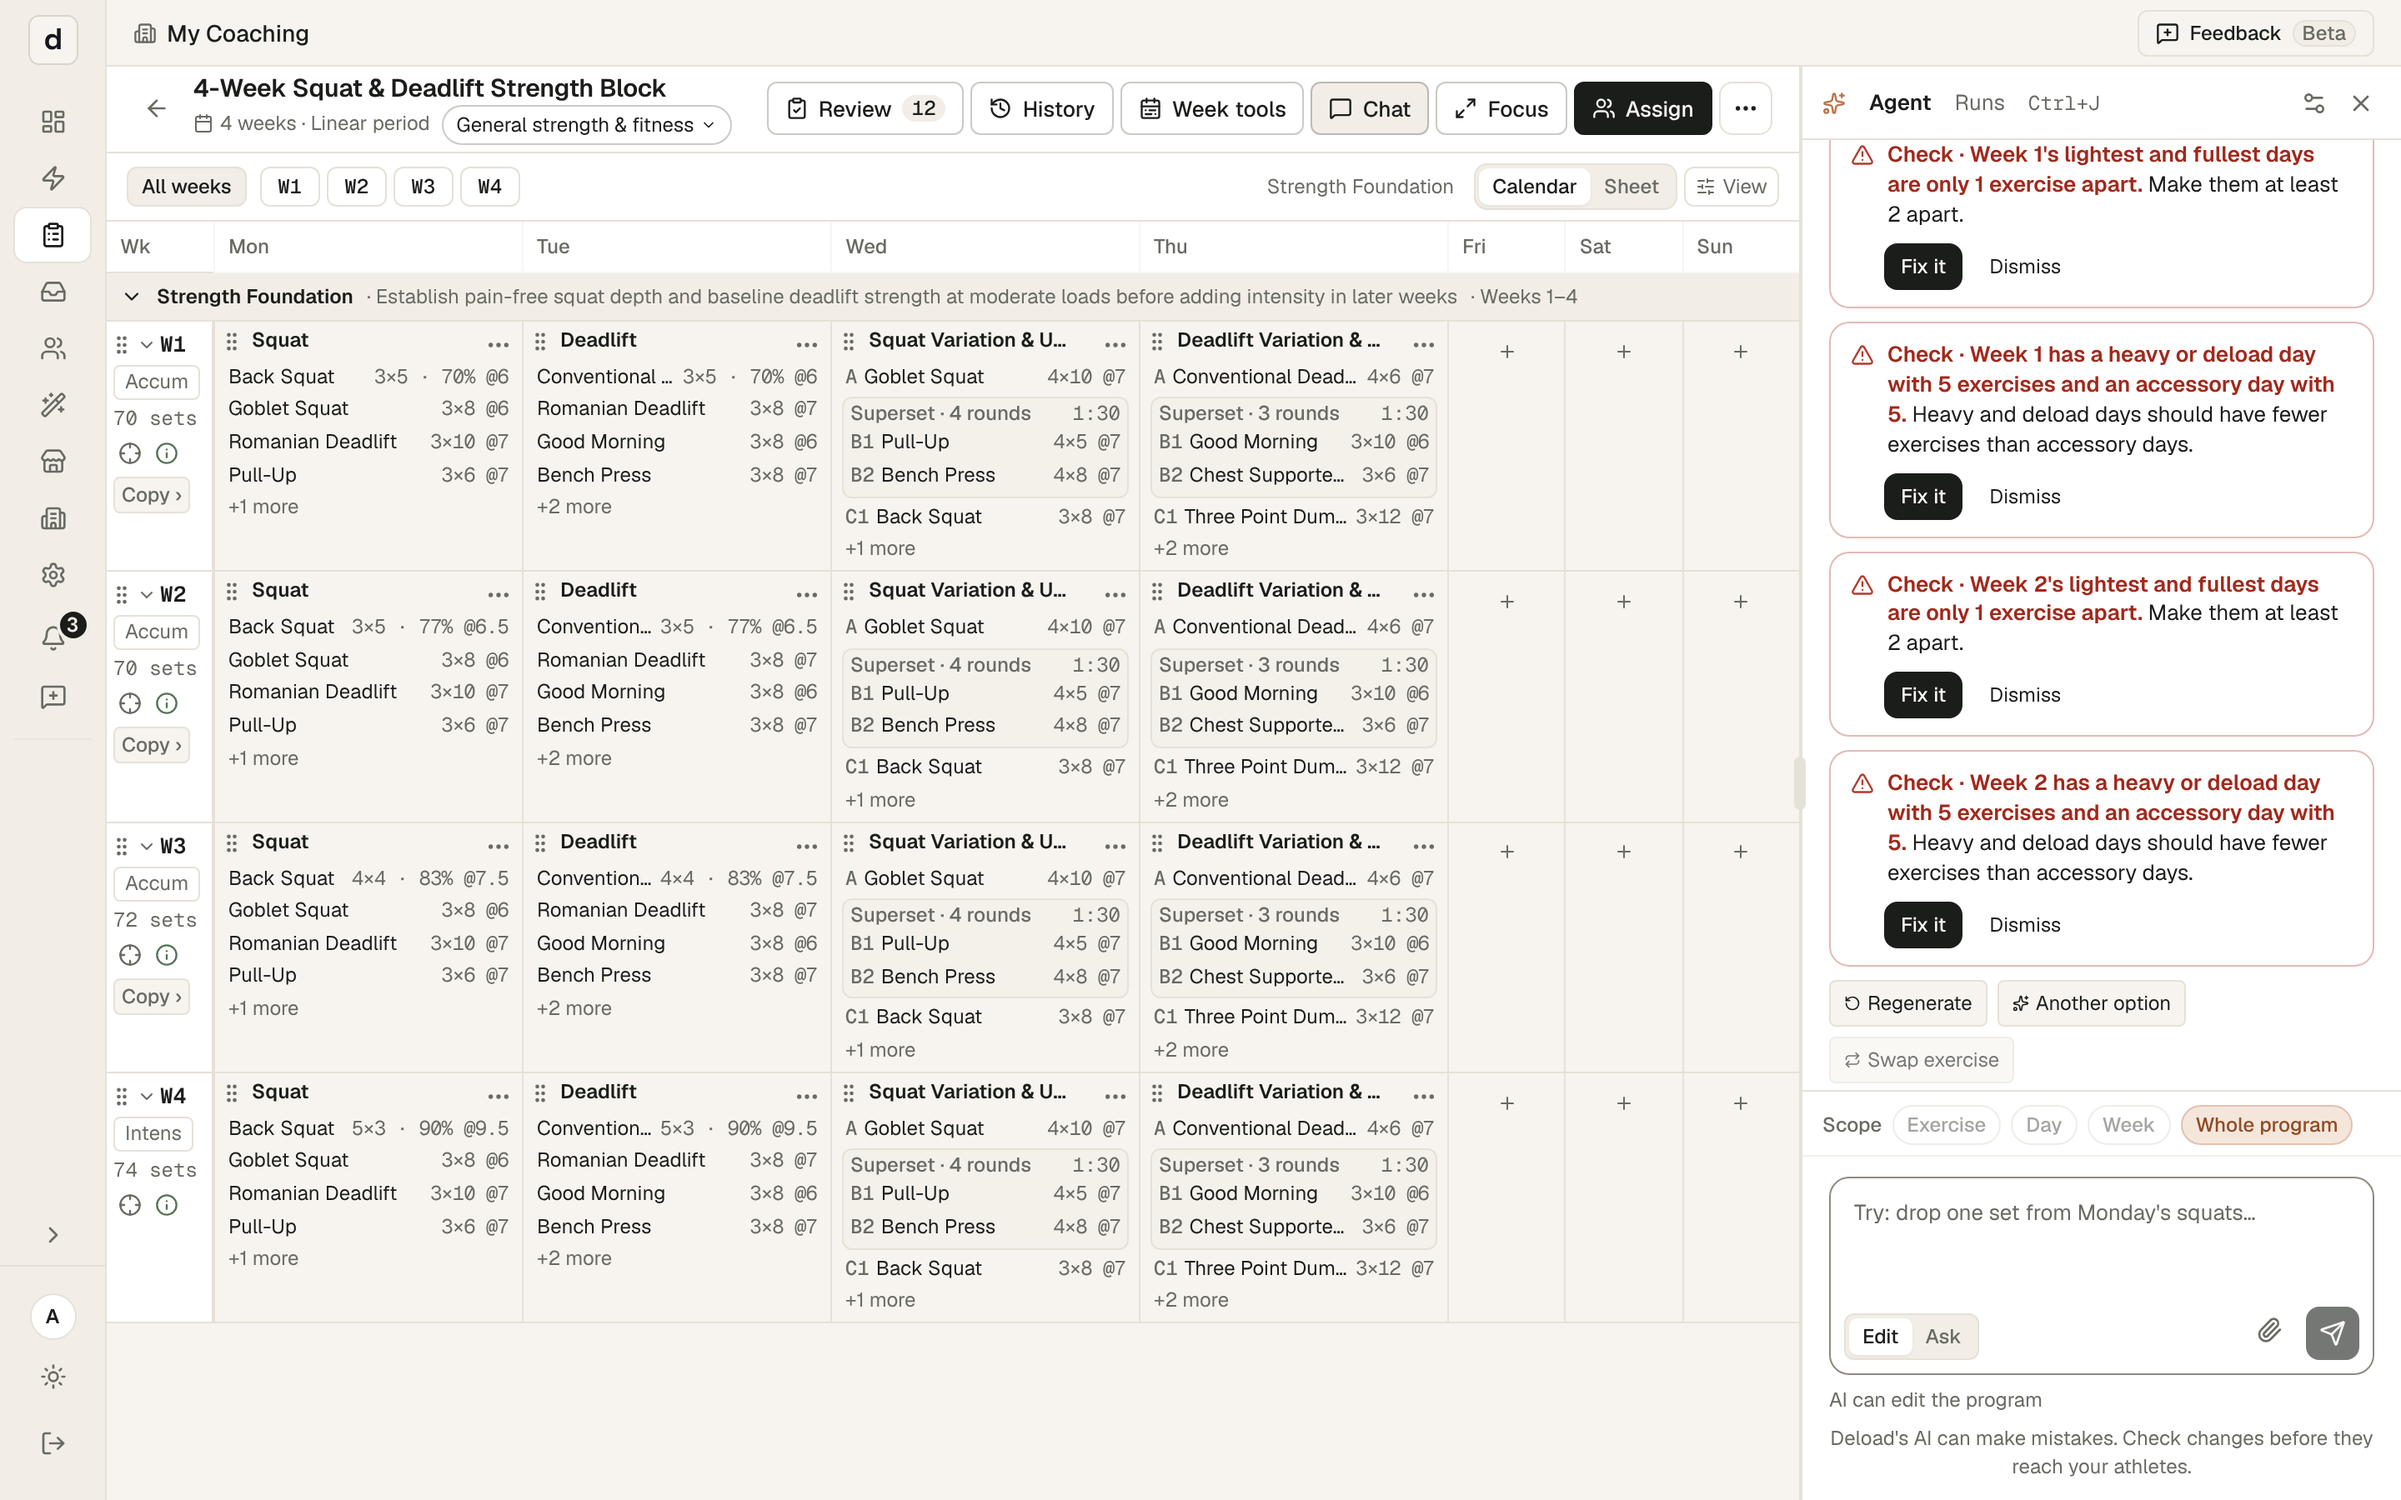
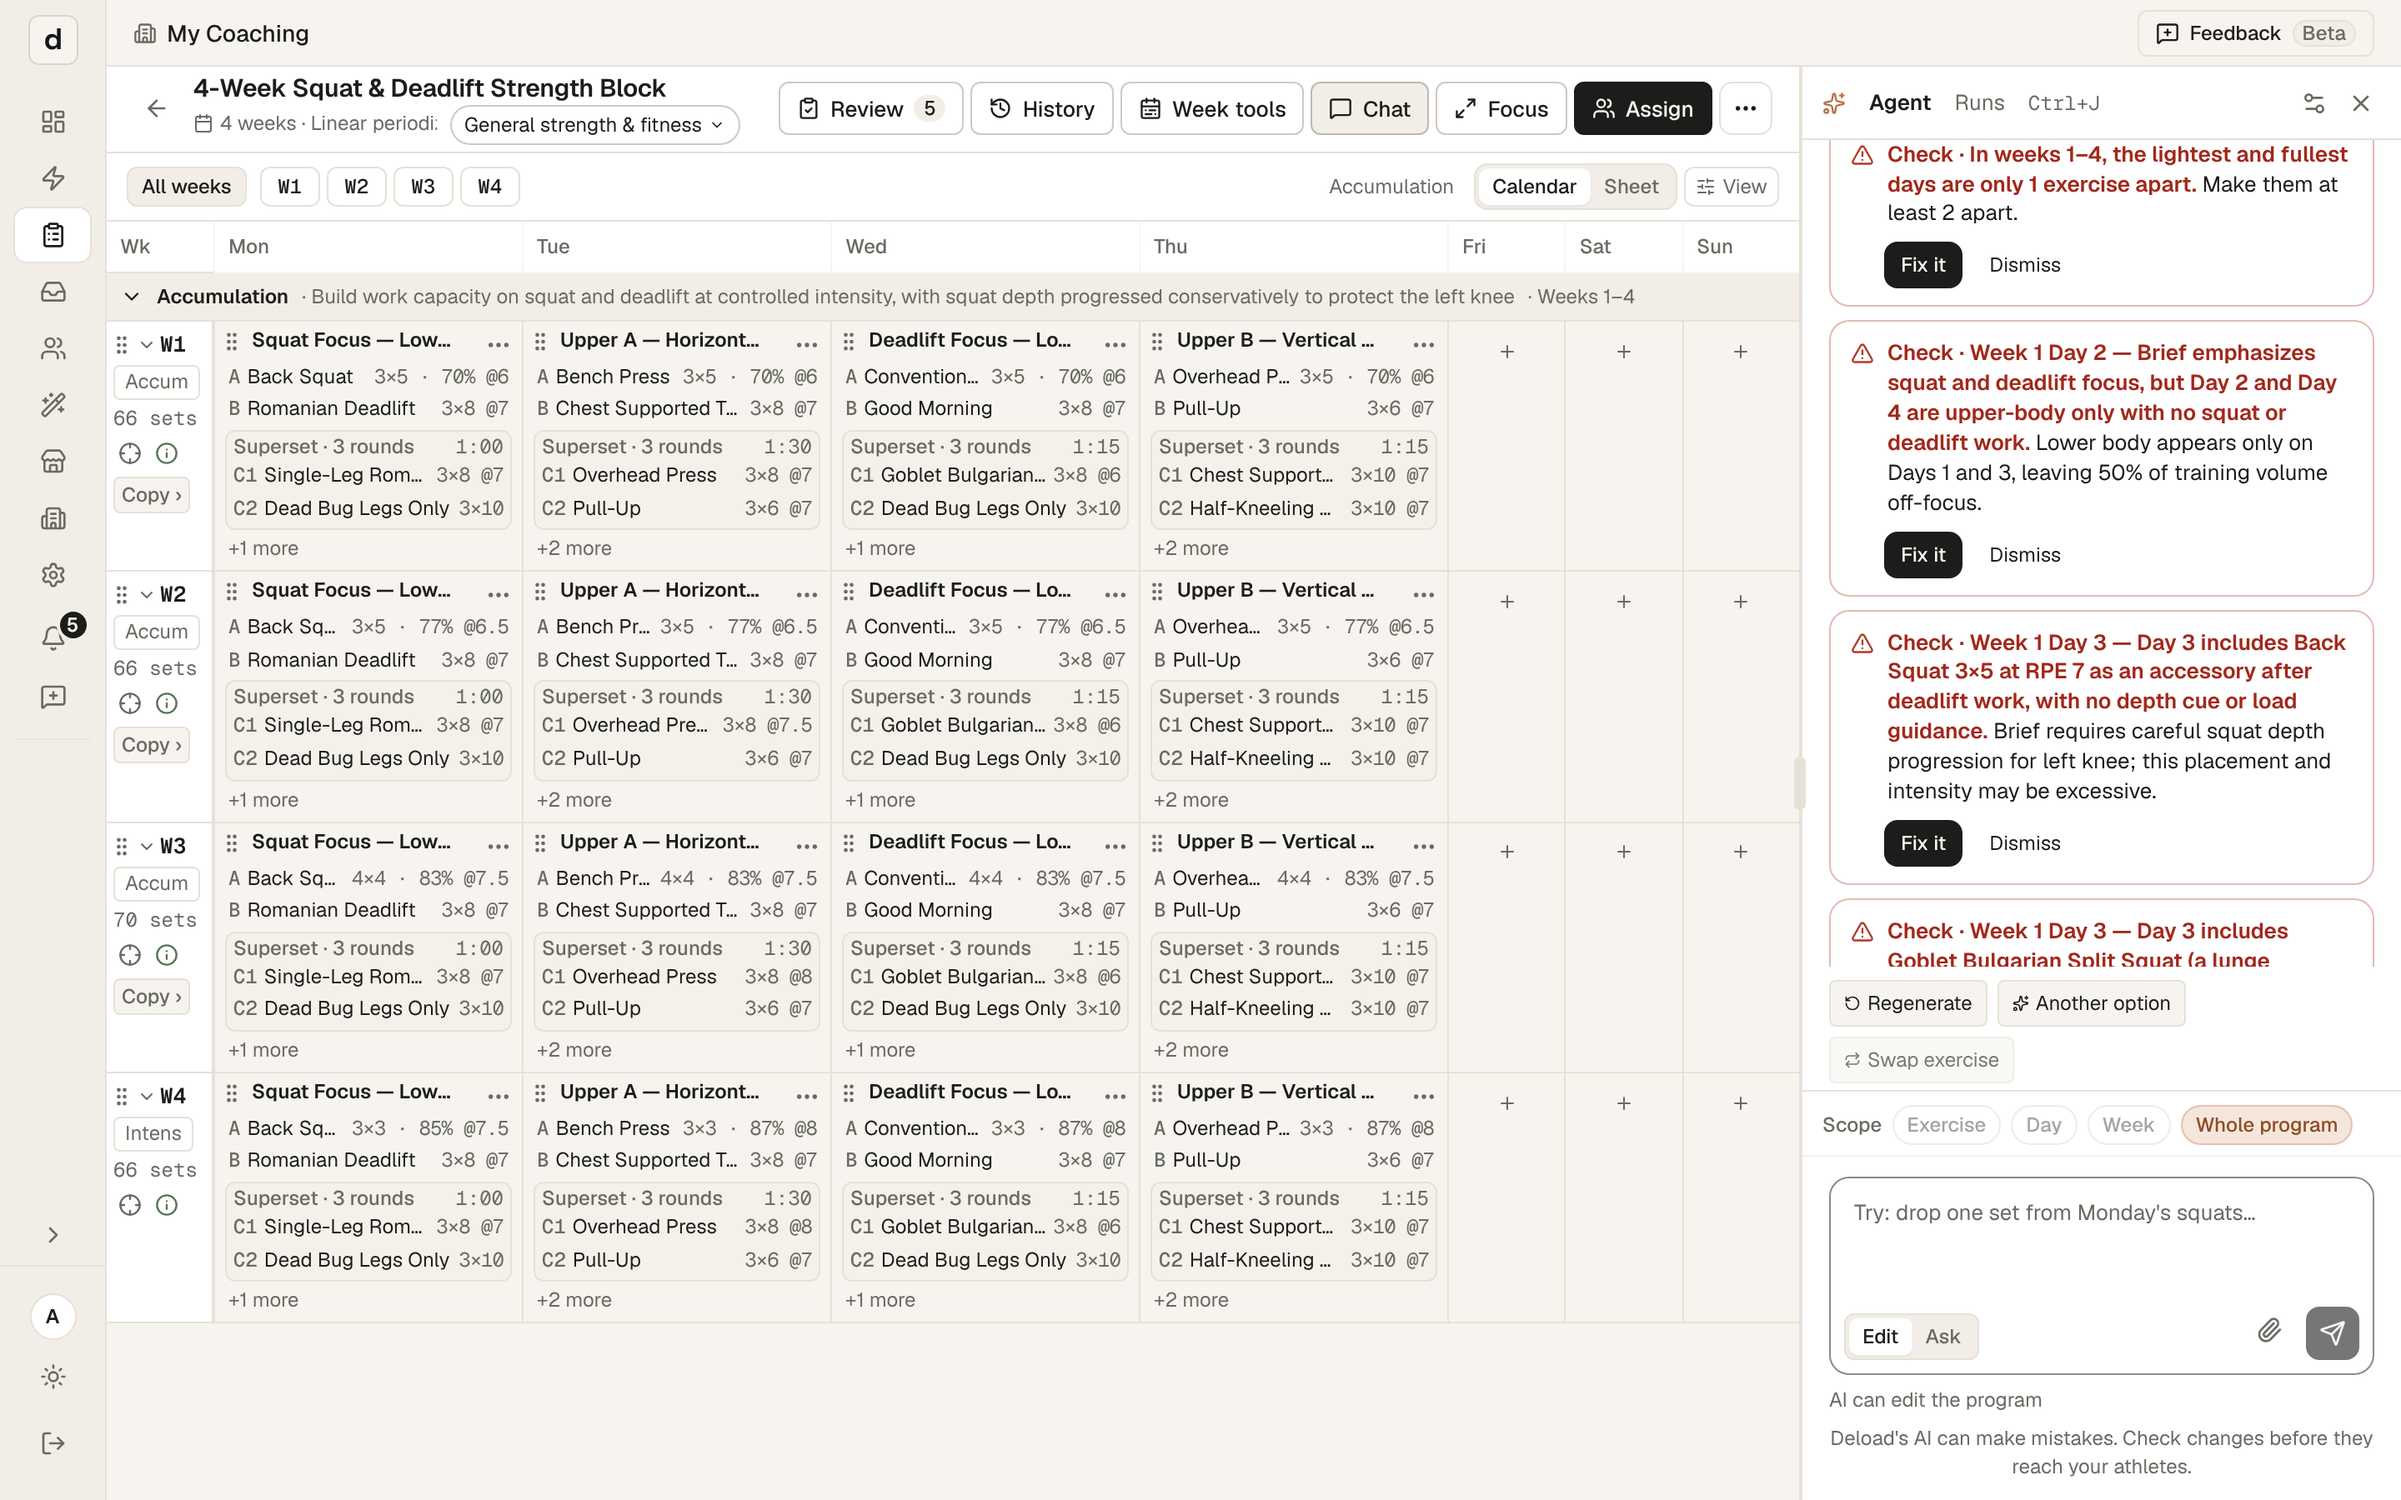
Recapture the plan turn and program calendar from staging
The earlier coach-generate-plan and coach-calendar shots came from a run
where the brief's goal was read as Powerlifting and a climbing exercise
(Limit Bouldering) landed on Thursdays. Both are fixed on staging, so the
same brief was generated again (one generation, then Build the rest) and
the two shots retaken in light and dark at the same size and framing.
README dates and file sizes updated.

Claude-Session: https://claude.ai/code/session_01JG6jN4yocjBnHC3guoLvJd

diff --git a/public/images/product/README.md b/public/images/product/README.md
@@ -1,6 +1,6 @@
 # Product screenshots
 
-Captured 14 Nov 2026 from staging (coach app and athlete app) for the marketing redesign. Each shot is a WebP with a PNG fallback of the same name.
+Captured 14 Nov 2026 from staging (coach app and athlete app) for the marketing redesign. The plan turn (`coach-generate-plan-*`) and the program calendar (`coach-calendar-*`) were recaptured later on 14 Nov 2026 from a fresh generation of the same brief, after the staging fix to how the brief's goal and exercises are read. Each shot is a WebP with a PNG fallback of the same name.
 
 - Coach shots: laptop viewport 1440 x 900 at 2x, so 2880 x 1800.
 - Athlete shots: phone viewport 390 x 844 at 2x, so 780 x 1688 (the numbers crop is 780 x 800).
@@ -13,8 +13,8 @@ Captured 14 Nov 2026 from staging (coach app and athlete app) for the marketing 
 | `coach-generate-plan-dark` | Generate: the plan turn, goal lifts it will check against, "Looks good, generate". (dark) | 2880 x 1800 | 101 KB | 324 KB |
 | `coach-generate-plan-light` | Generate: the plan turn, goal lifts it will check against, "Looks good, generate". (light) | 2880 x 1800 | 103 KB | 327 KB |
 | `coach-generate-building-light` | Generate: week 1 drafting into the calendar while the agent works (light only, a moment in a live run). (light) | 2880 x 1800 | 119 KB | 376 KB |
-| `coach-calendar-dark` | Program calendar, 4 weeks built, with the week checks and Fix it in the side panel. (dark) | 2880 x 1800 | 289 KB | 777 KB |
-| `coach-calendar-light` | Program calendar, 4 weeks built, with the week checks and Fix it in the side panel. (light) | 2880 x 1800 | 296 KB | 778 KB |
+| `coach-calendar-dark` | Program calendar, 4 weeks built, with the week checks and Fix it in the side panel. (dark) | 2880 x 1800 | 323 KB | 745 KB |
+| `coach-calendar-light` | Program calendar, 4 weeks built, with the week checks and Fix it in the side panel. (light) | 2880 x 1800 | 331 KB | 749 KB |
 | `coach-chat-edit-dark` | Chat edit: "swap the overhead press on Tuesday for a Romanian deadlift", the Was/Now diff on the calendar and in the change card. (dark) | 2880 x 1800 | 144 KB | 439 KB |
 | `coach-chat-edit-light` | Chat edit: "swap the overhead press on Tuesday for a Romanian deadlift", the Was/Now diff on the calendar and in the change card. (light) | 2880 x 1800 | 150 KB | 443 KB |
 | `coach-dashboard-dark` | Coach dashboard: today, this week, recent programs, athletes. (dark) | 2880 x 1800 | 94 KB | 308 KB |
